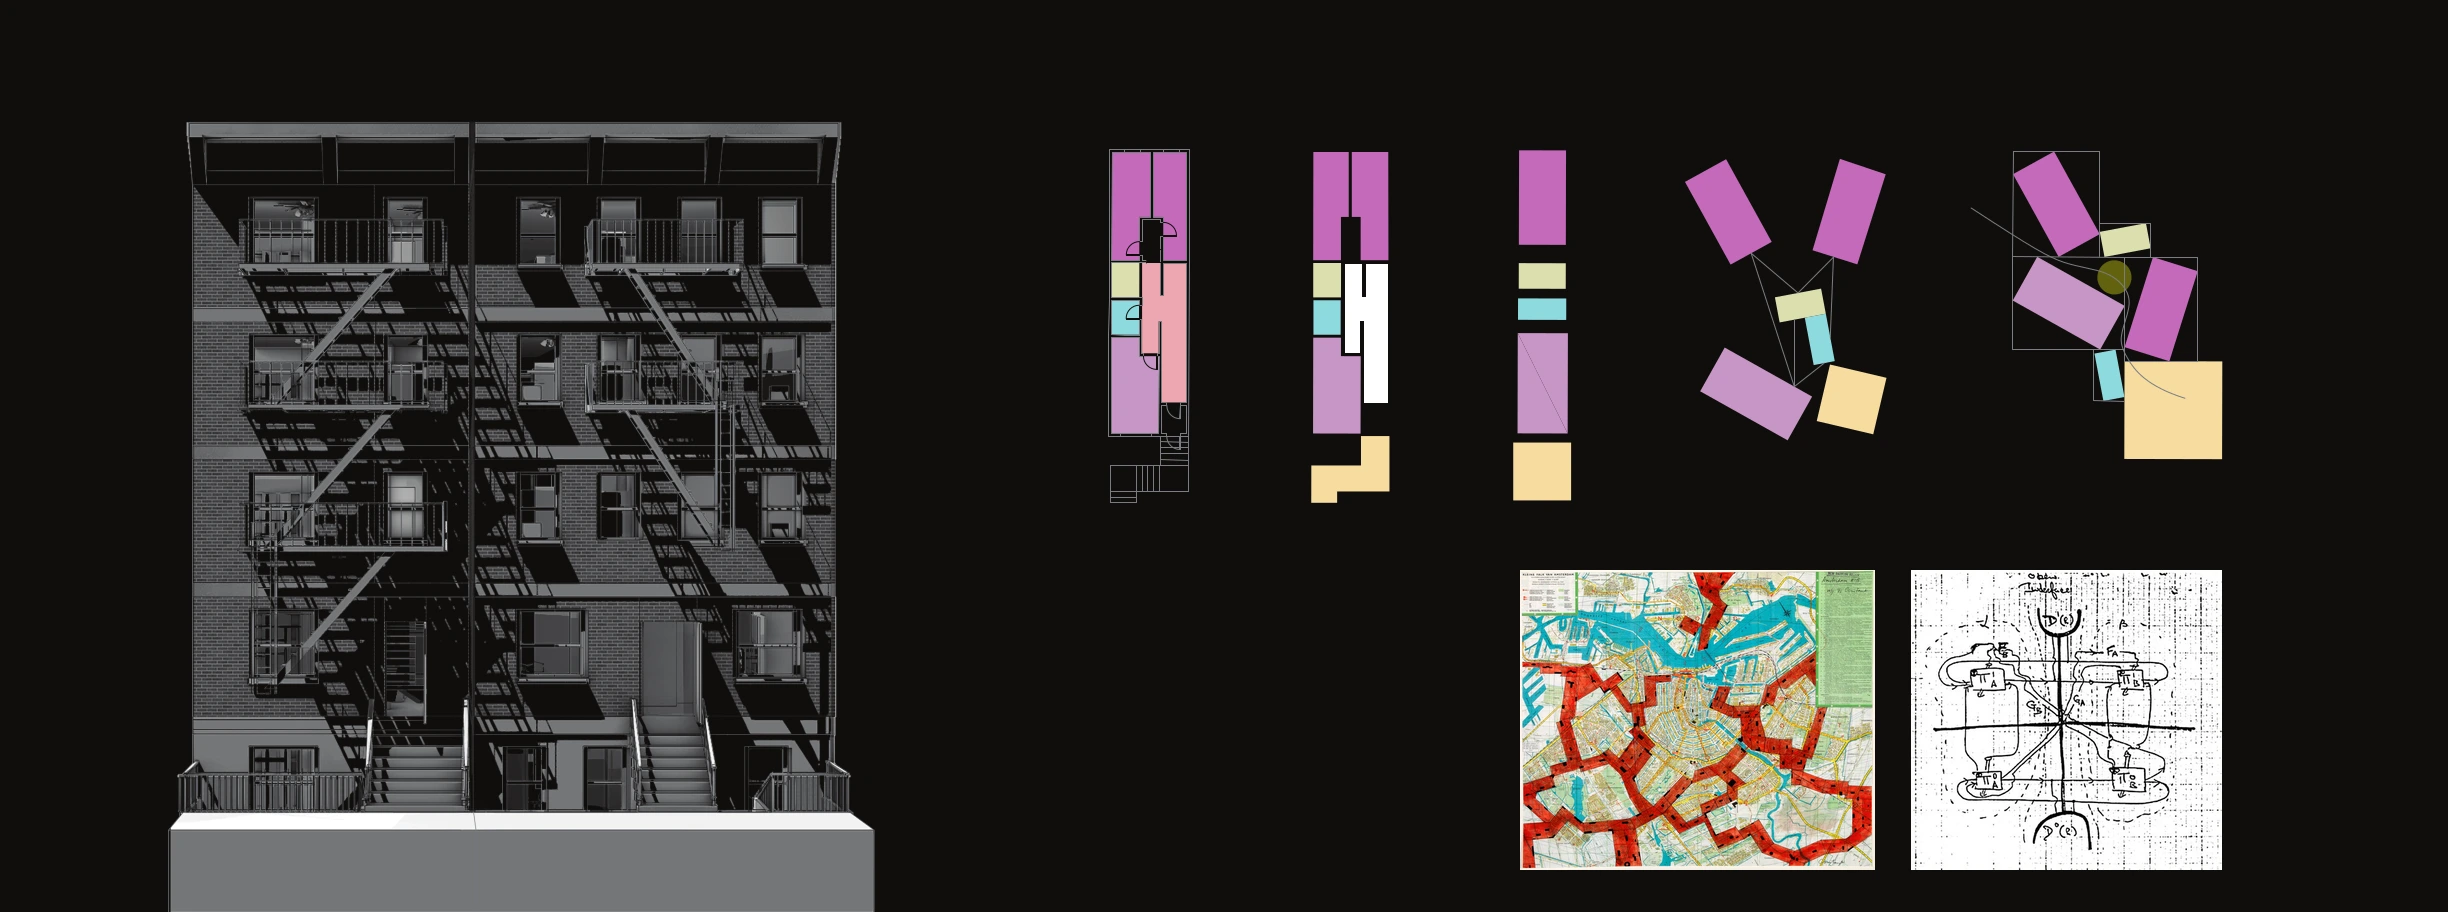
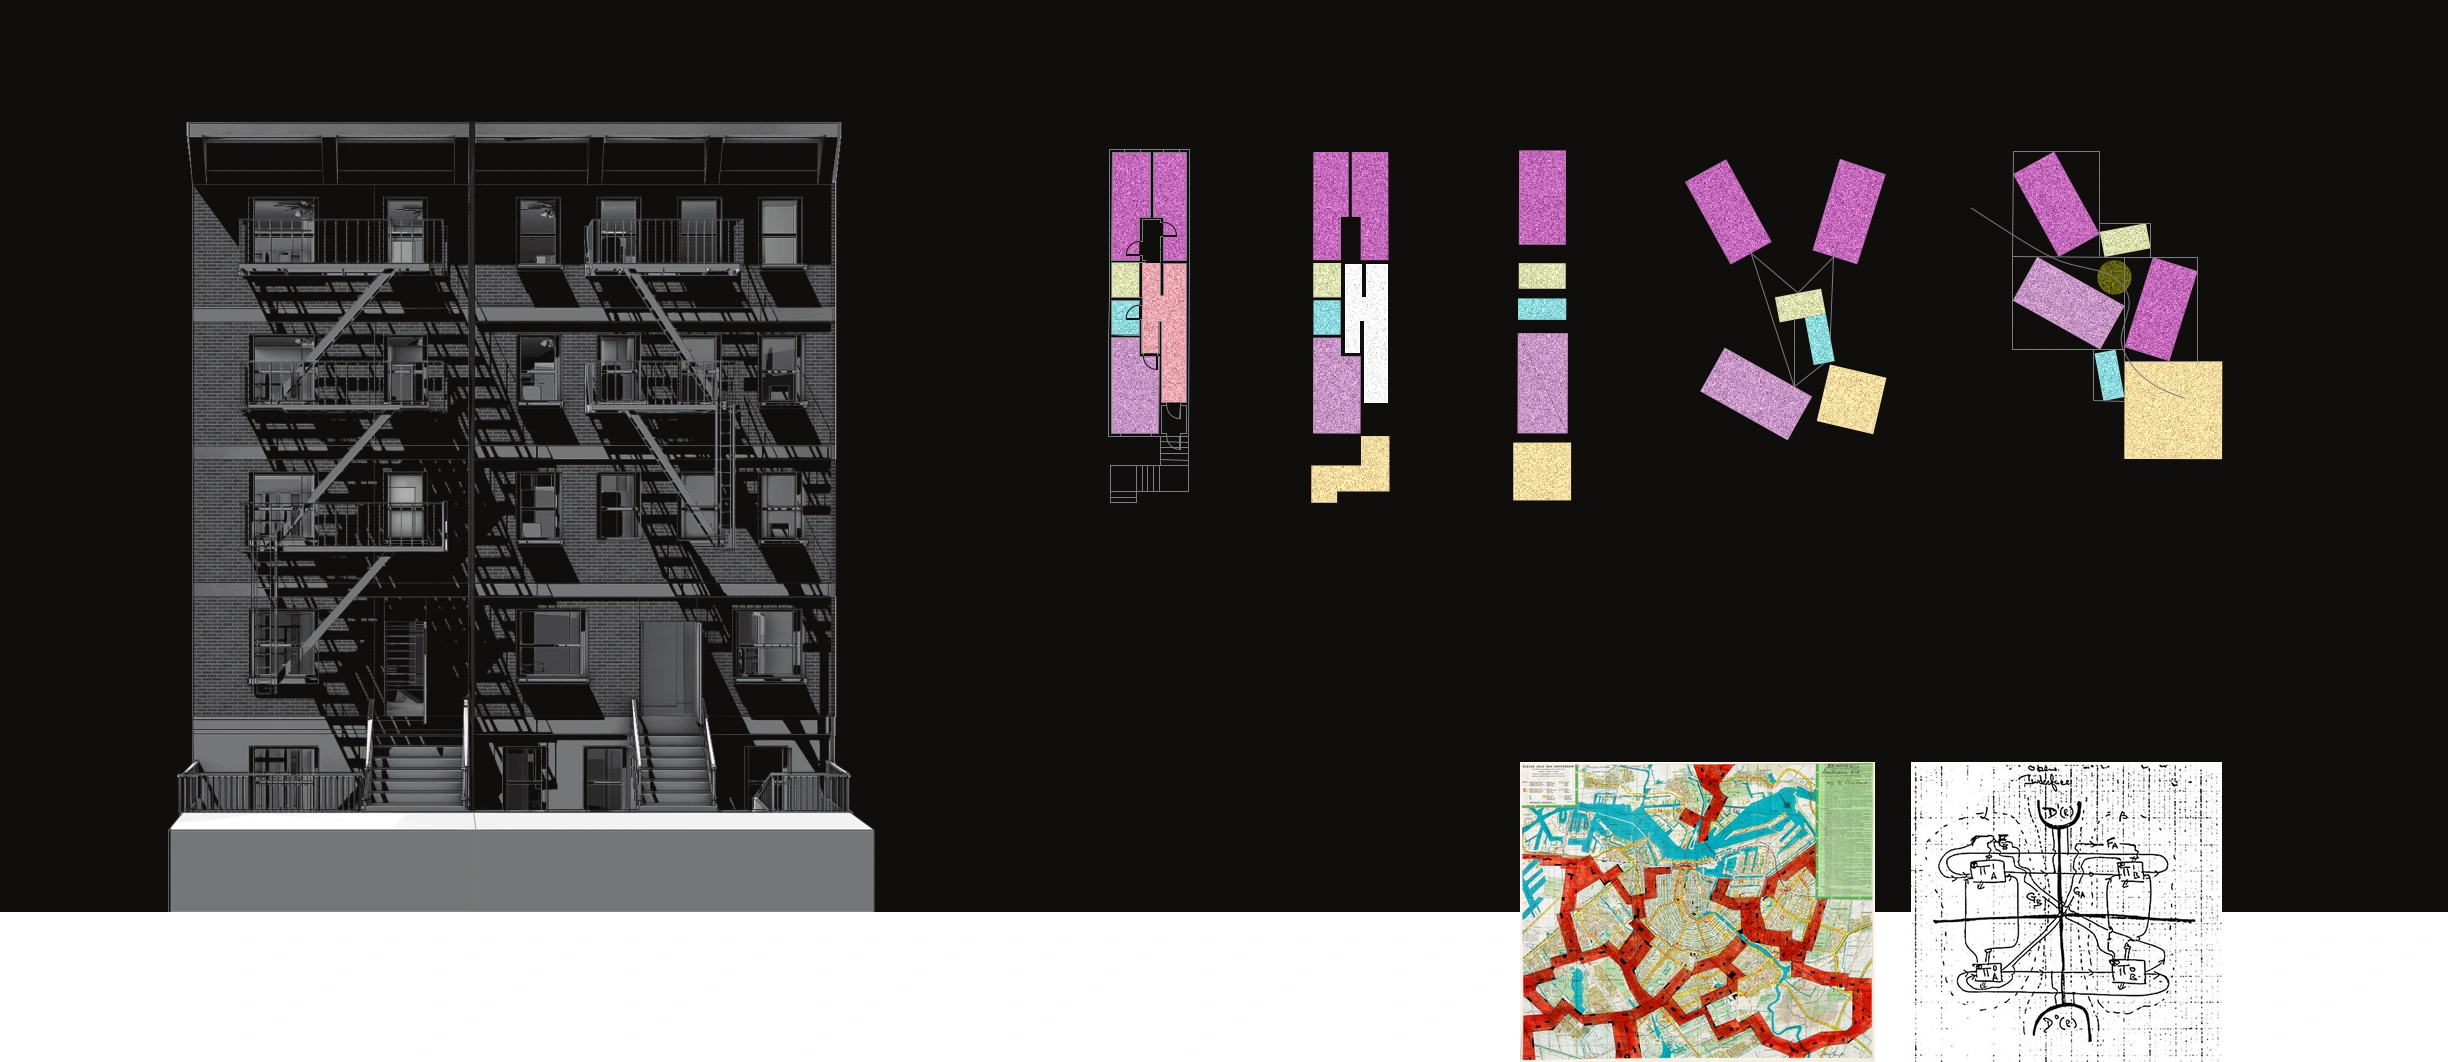
East 5th references slide: Constant and Pask half inside the black box, half below; grain on the diagram's coloured boxes
Claude-Session: https://claude.ai/code/session_012xVSFeyKoQyZUFPAaCyKB9

diff --git a/public/projects.js b/public/projects.js
@@ -103,10 +103,9 @@ window.PROJECTS = {
     grid: [
       {src: "img/social-sanctuary/render-stairs.jpg", caption: "Stairs"},
         // his diagram1.pdf as it is (black ground, no crop; tenement-diagram.webp alone), with Constant's map and Pask's
-        // diagram under the diagram (his ask, 2026-11-06; no separate slide). Trials by address: default = inside the black,
-        // &ref=b on white below the panel, &ref=c the black panel taller. Its note is on the right (notes below)
-      {src: "img/social-sanctuary/tenement-diagram-references.webp", drawing: true, caption: "Co-op tenement, underspecificity diagram, Constant and Pask references",
-        trial: {b: "img/social-sanctuary/refs-trial-b.webp", c: "img/social-sanctuary/refs-trial-c.webp"}},
+        // diagram under the diagram, half inside the black and half below it (his pick, 2026-11-06; no separate slide);
+        // grain on the diagram's coloured boxes (his ask). Its note is on the right (notes below)
+      {src: "img/social-sanctuary/tenement-diagram-references.webp", drawing: true, caption: "Co-op tenement, underspecificity diagram, Constant and Pask references"},
         // the site plan from his sheet, words and the three massing iterations taken off (his call, 2026-11-06; the
         // underspecificity diagram page was dropped); set smaller inside a white margin (his ask); street names kept, at twice his sheet size so they read at that size
       {src: "img/social-sanctuary/site-plan.png", drawing: true, caption: "Site plan"},
